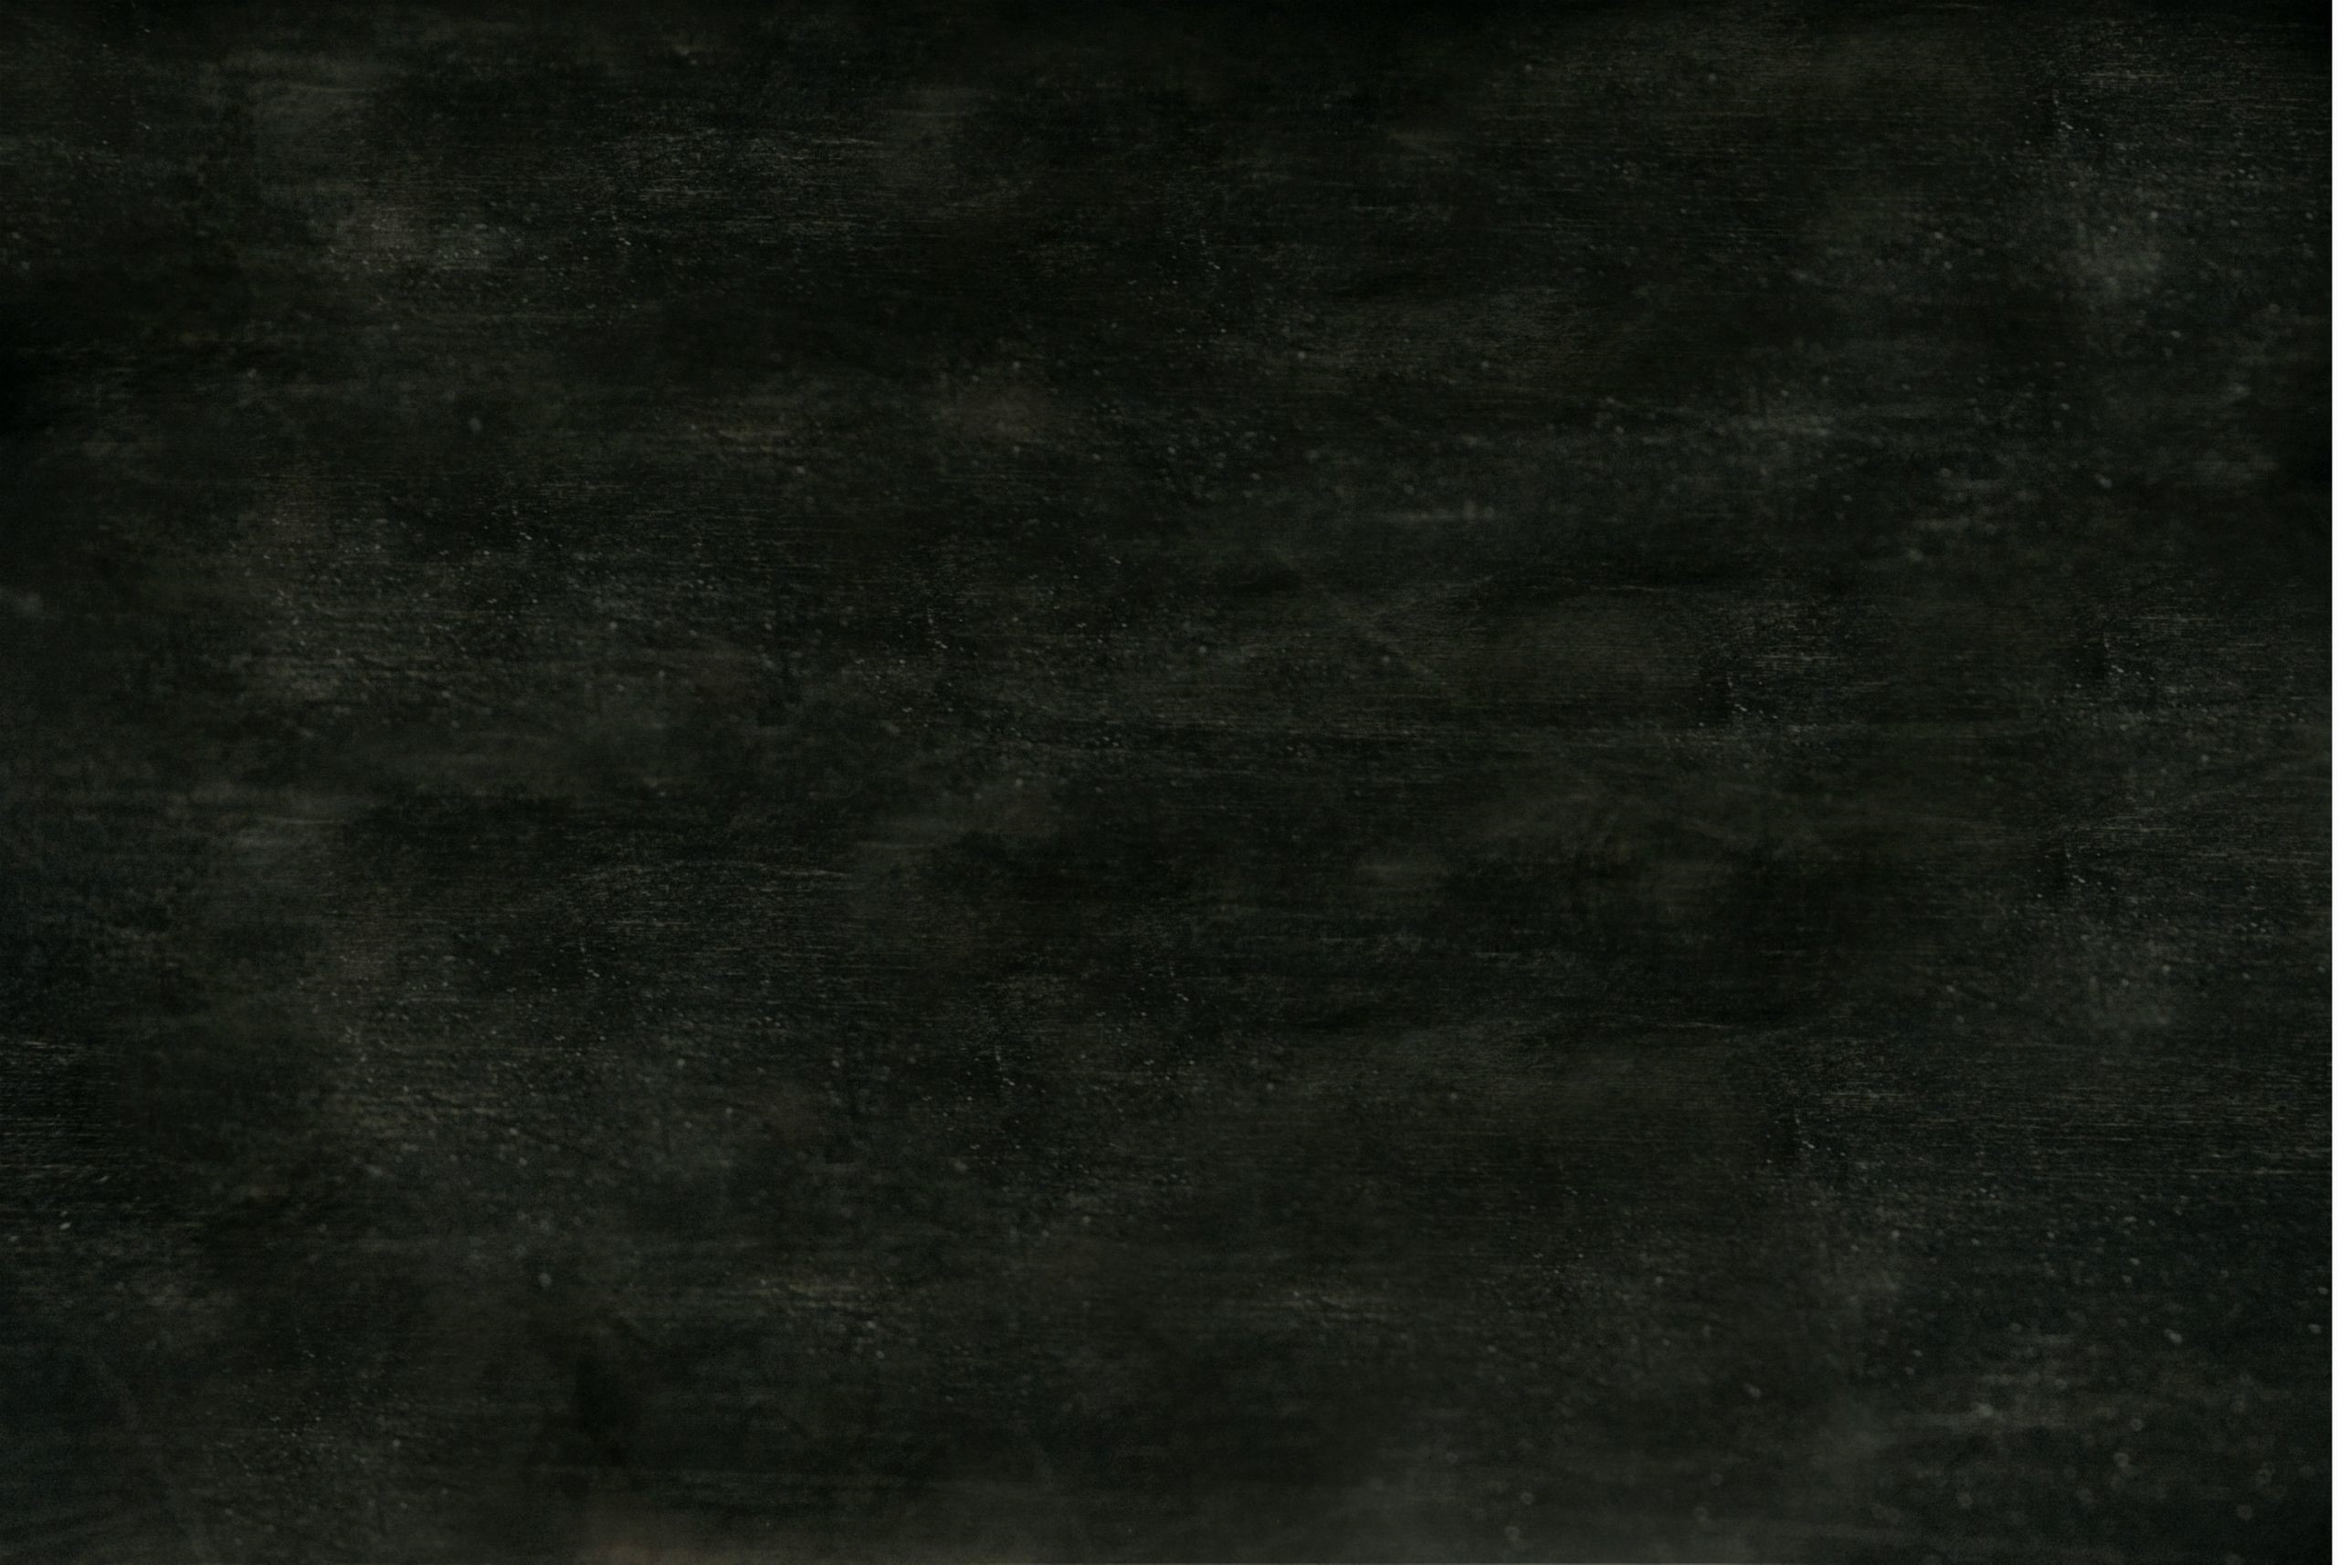
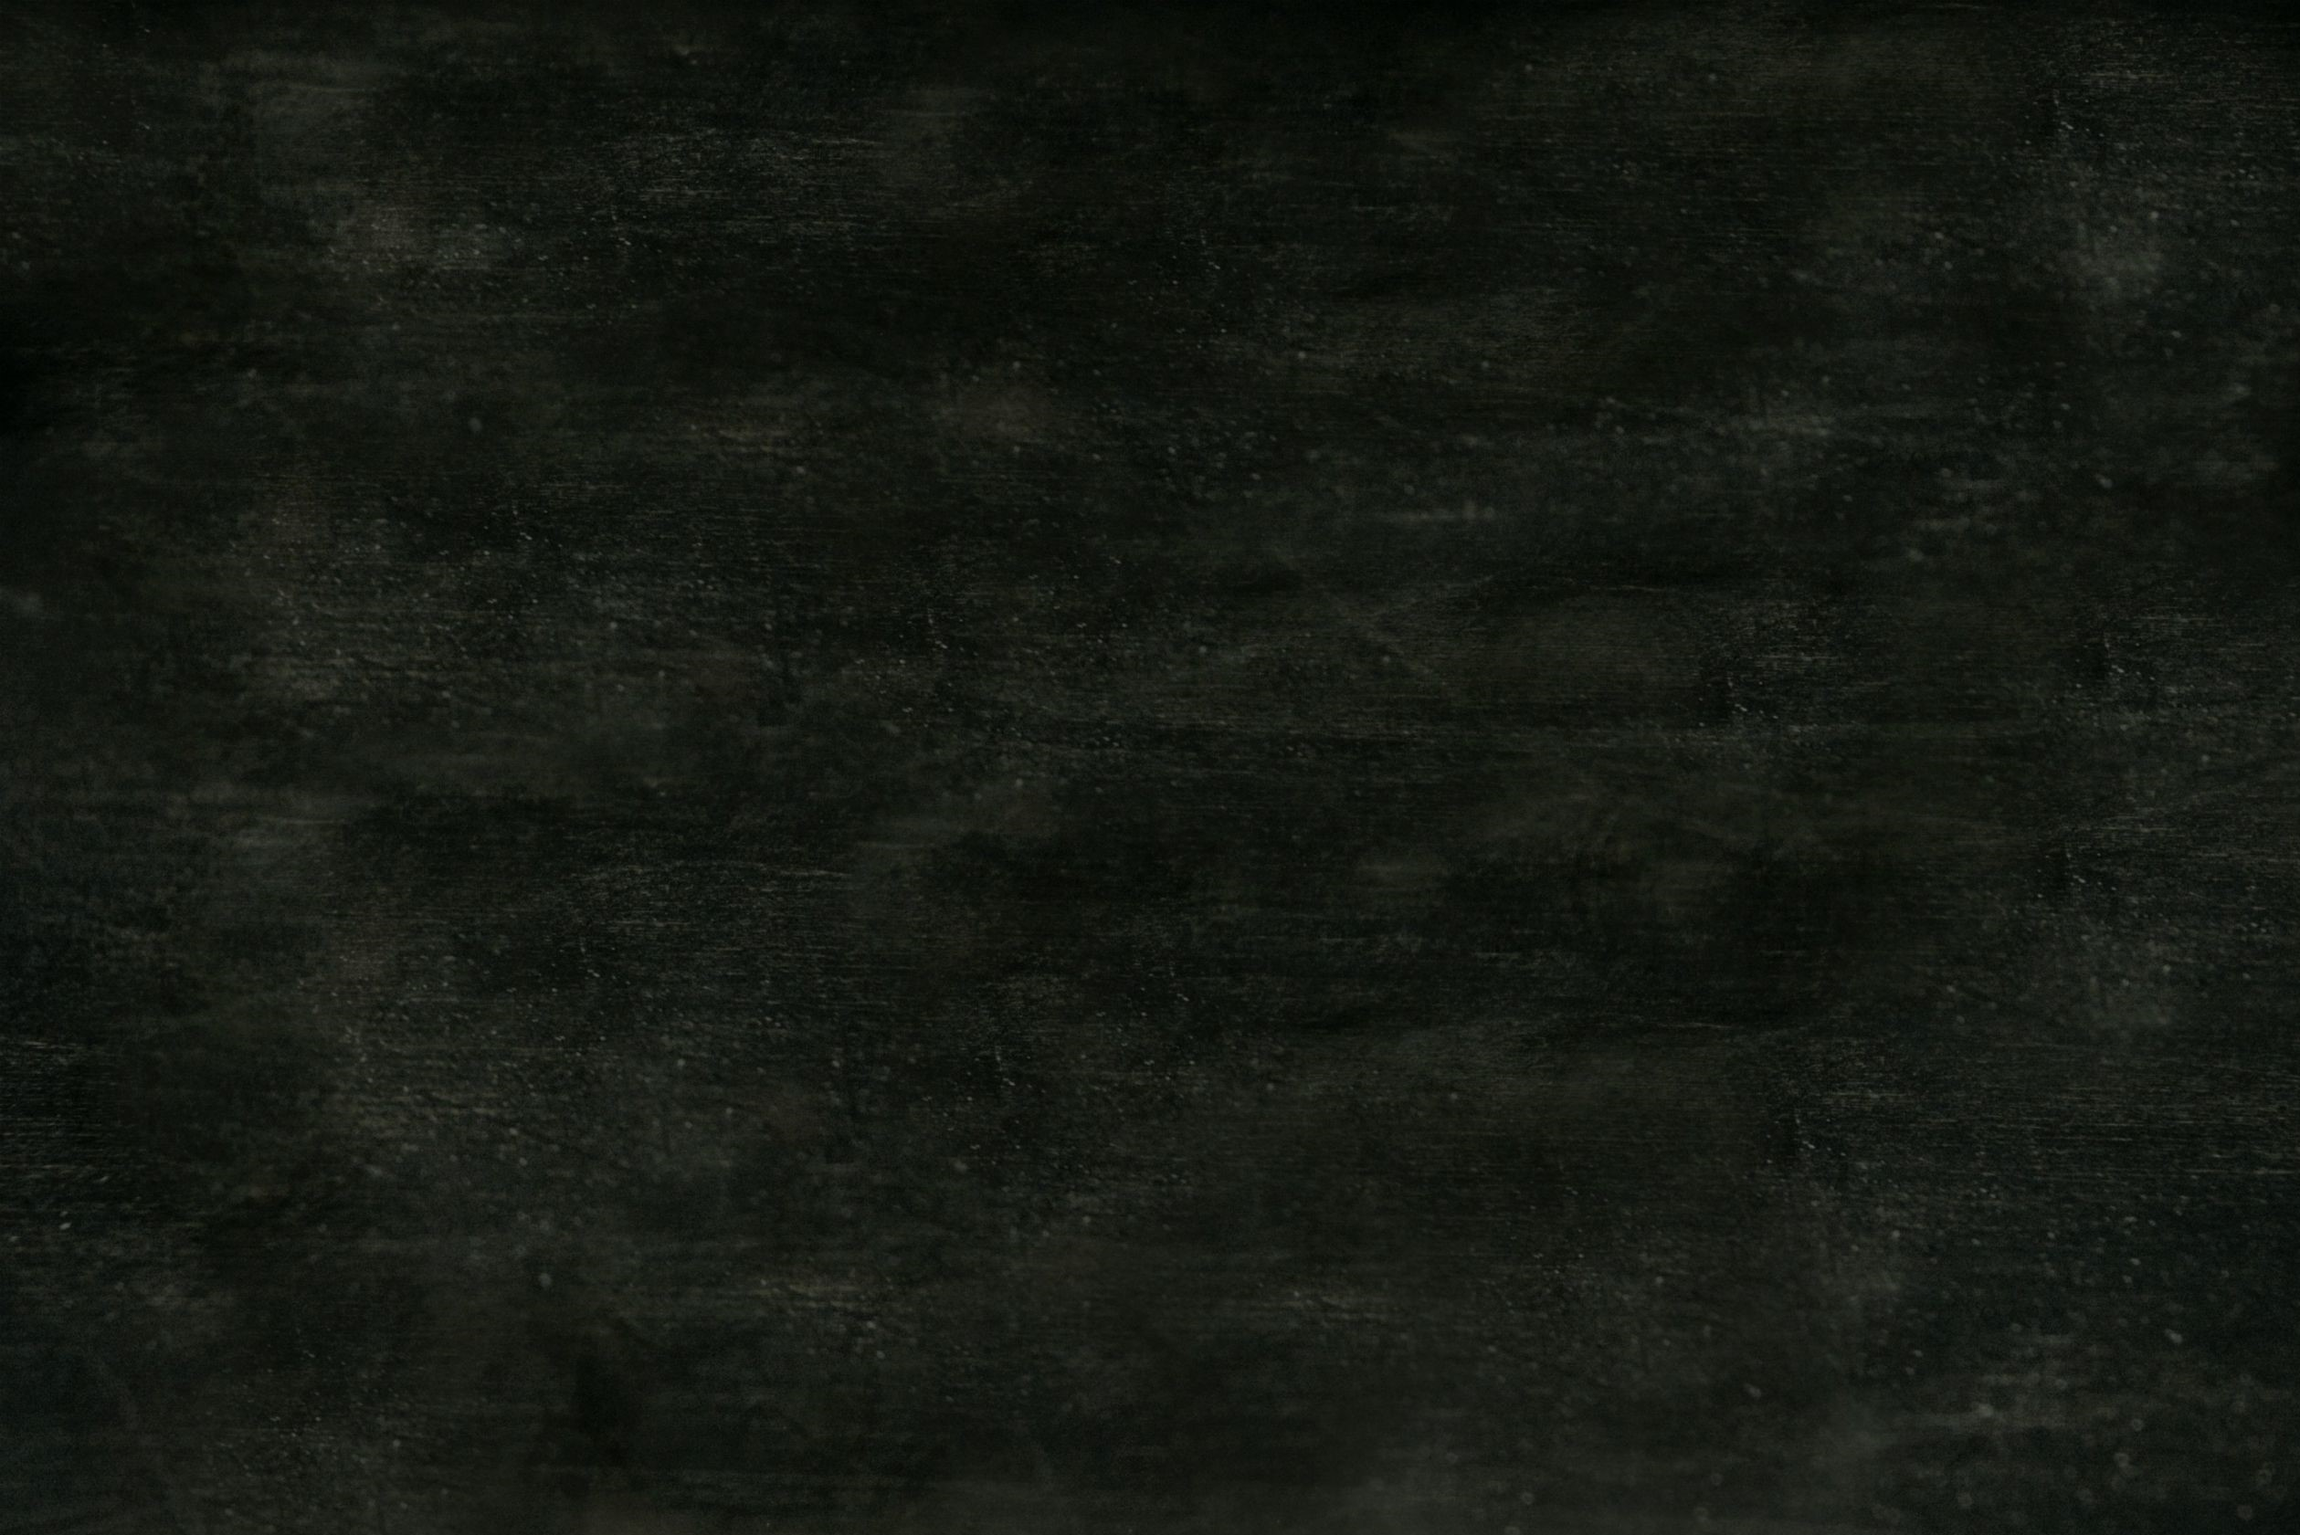
changed background, nav bar on on other pages, underlined navbar

diff --git a/style.css b/style.css
@@ -18,7 +18,7 @@ body {
 }
 .nav-wrapper a {
     font-family: chalk;
-    font-size: 24px;
+    font-size: 30px;
     font-weight: 400;
     color: #BFC9CA;
     text-decoration: none;
@@ -37,12 +37,15 @@ body {
 .bgImgCenter {
     display: grid;
     grid-template-columns: 1fr;
-    background: linear-gradient(rgba(0, 1, 0, 0.65), rgba(0, 1, 0, 0.65)), url('images/image.jpg');
-    background-repeat: no-repeat;
+    background: linear-gradient(rgba(0, 1, 0, 0.65), rgba(0, 1, 0, 0.65)), url('images/img.jpg');
+    /*background-repeat: repeat;*/
     opacity: 1;
     height: 100%;
     width: 100%;
     background-size: cover;
+    background-position: center center;
+    margin:auto;
+    padding:0;
     position: absolute;
 }
 
@@ -50,7 +53,7 @@ body {
     position: absolute;
     top: 30%;
     left: 50%;
-    font-size: 30px;
+    font-size: 24px;
     font-weight: 400;
     font-family: chalk;
     color: #BFC9CA;
@@ -61,9 +64,9 @@ body {
 
 .nietzsche {
     position: absolute;
-    top: 40%;
+    top: 45%;
     left: 50%;
-    font-size: 24px;
+    font-size: 15px;
     font-weight: 400;
     font-family: chalk;
     color: #BFC9CA;
@@ -77,7 +80,7 @@ body {
   float: none;
   position: absolute;
   left: 50%;
-  top:70%;
+  top:85%;
   transform: translateX(-50%);
 }
 .nav-below a {

diff --git a/index.html b/index.html
@@ -3,6 +3,7 @@
 
 <head>
     <title>Home page</title>
+    <meta name="viewport" content="width=device-width, initial-scale=1.0">
     <link href="https://fonts.googleapis.com/css2?family=Amatic+SC&family=Fredericka+the+Great&display=swap" rel="stylesheet">
     <link rel="stylesheet" type="text/css" href="style.css">
 </head>
@@ -10,9 +11,9 @@
 <body>
     <div class="bgImgCenter">
         <div class="nav-wrapper">
-                <a href="">home</a>
-                <a href="">about</a>
+                <a href="index.html" style="border-bottom: 3px solid #BFC9CA;">home</a>
                 <a href="interest.html">Interest</a>
+                <a href="">about</a>
                 <a href="">Contact</a>
         </div>
         <div class="writing">
@@ -23,10 +24,10 @@
             </h2>
         </div>
         <div class="nav-below">
-                <a href="">
+                <a href="https://www.facebook.com/nafisa.naznin.96">
                     <img src="images/facebook.jpg">
                 </a>
-                <a href="">
+                <a href="https://github.com/Nafisa41">
                     <img src="images/github.jpg">
                 </a>
                 <a href="">

diff --git a/interest.html b/interest.html
@@ -8,6 +8,12 @@
 
 <body>
     <div class="bgImgCenter">
+        <div class="nav-wrapper">
+                <a href="index.html">home</a>
+                <a href="interest.html" style="border-bottom: 3px solid #BFC9CA;">Interest</a>
+                <a href="">about</a>
+                <a href="">Contact</a>
+        </div>
         <div class="container">
             <div class="portfolio-all">
                 <div class="portfolio-single">
